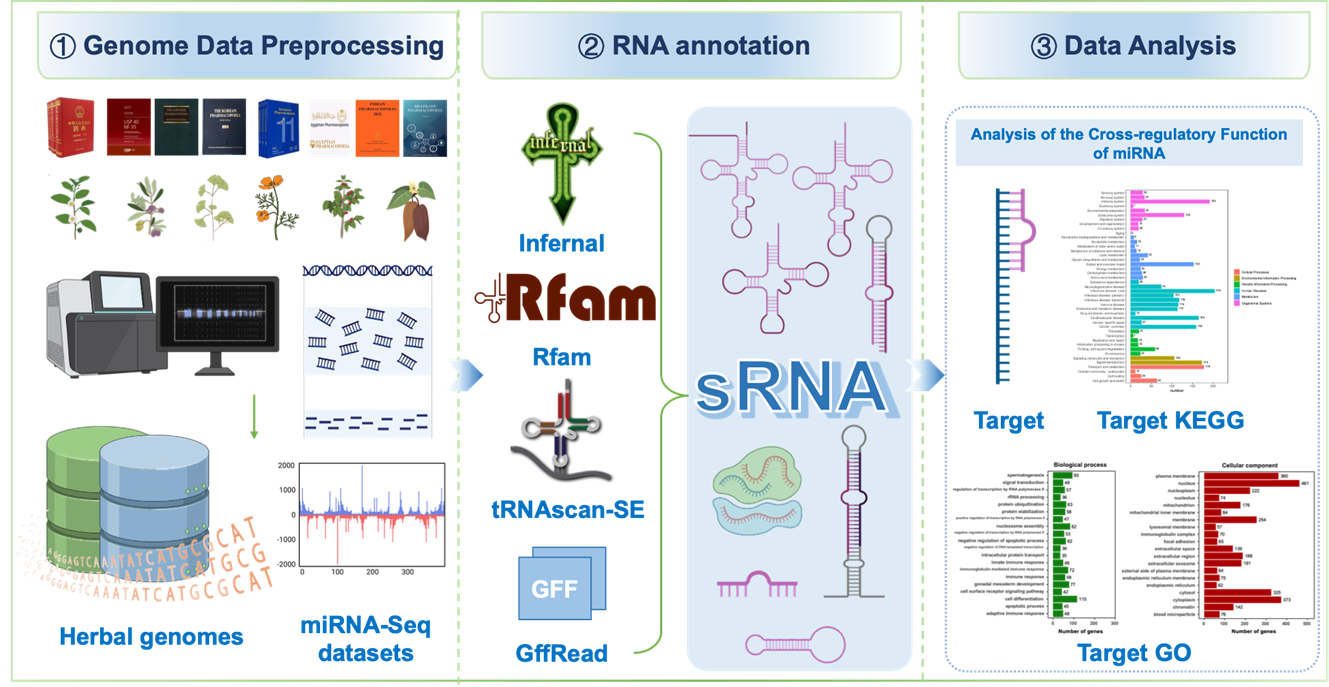
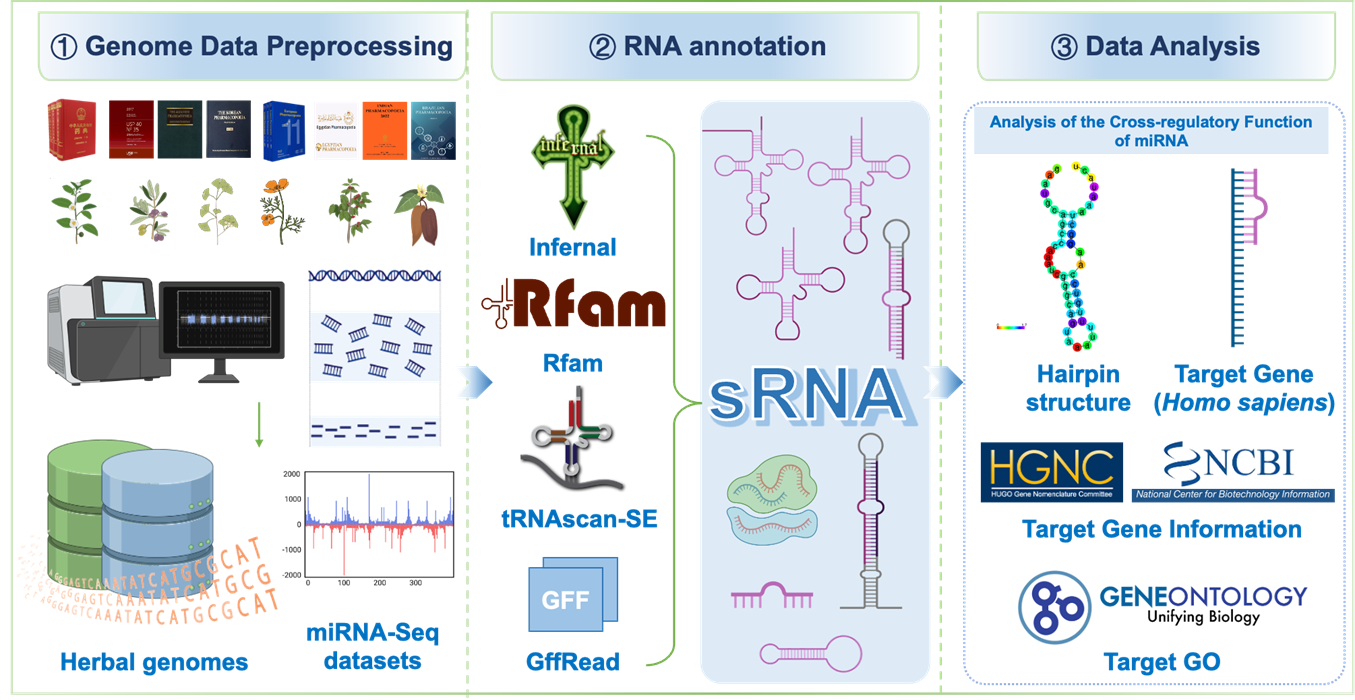
all_mes

diff --git a/README.md b/README.md
@@ -9,20 +9,22 @@
 Retrieve datasets from the following sources:
 - [NCBI](https://www.ncbi.nlm.nih.gov/)
 - [1K-MPGD](http://www.herbgenome.com/)
+- [TCMPG](https://cbcb.cdutcm.edu.cn/TCMPG/)
 
+### 2. Genome predicted Small RNA
 
-### 2. Pre-processing for miRNA-seq
+-  Rfam database (version 14.10) alongside INFERNAL software (version 1.1.4) were used for ncRNA prediction. High-confidence predictions were further refined to extract snRNAs and miRNAs. The parameters used for Rfam were "-cut_ga -rfam -nohmmonly -fmt 2", while INFERNAL was executed with "cmscan -cut_ga -nohmmonly -cpu 16 --tblout out.tblout -fmt 2 -clanin Rfam.clanin -rfam Rfam.cm genome.fa". For tRNA sequence characterization, tRNAscan-SE (version 2.0.12) was employed with the parameters "-E -j tRNA.gff -o tRNA.result -f tRNA.struct". Additionally, rRNA prediction was conducted using rRNAmmer (version 1.2) with the parameters "-S euk -m tsu, lsu, ssu".
 
-- TBtools_JRE1.6.jar biocjava.sRNA.Tools.sRNAseqAdaperRemover Settings "-- minLen 17", remove the miRNA-seq sequencing data downloaded from NCBI joint sequence, And the reads with the same sequence are merged to deredundant.
+### 3. Pre-processing for miRNA-seq
+
+- The tBtools_JRE1.6.jar biocjava.sRNA.Tools.sRNAseqAdaperRemover software was used to remove splice sequences from the sequencing data, followed by merging and de-redundancy of reads with identical sequences using the parameter "--minLen 17".
+- Based on the genome annotations provided in the GFF file, gffread (version 0.12.7) was utilized to extract gene sequences from the genome. 
 - miRDeep2 (version 2.0.1.2) software was used for miRNA prediction based on genome sequences and miRBase (version 22.1) database.
-- gffread software (version 0.12.7), based on genome structure annotation GFF files, accurately extracts gene sequences from genome sequences
 
-### 3. miRNA 靶基因预测
+### 4. Annotation of miRNA target genes
 
-- psRobot software (version 1.2) was used to analyze the complementary pairing between miRNA sequences and target gene mRNA sequences to search for potential binding sites. At the same time, the software will evaluate the secondary structure of the target gene, and by calculating the free energy of miRNA binding to the target gene, select the target gene with higher binding stability and closer to the real situation.
-- RNAhybrid software (version 2.1.2) was used to predict the target genes of miRNA in species human. The software analyzes the complementary pairing between the miRNA sequence and the target gene mRNA sequence to search for potential binding sites.
-- the kofam_scan tool (ftp://ftp.genome.jp/pub/tools/kofam_scan) was used for functional annotation of the miRNA target gene KEGG; GO functional annotation was performed using diamond against the UniProt database, which was used to obtain GO functional annotation information through the corresponding GO annotation information of the proteins in the UniProt database. The GO functional annotation was performed by using the GO annotation information of proteins in the UniProt database.
+- RNAhybrid (version 2.1.2) was used to analyze the complementary pairing patterns between miRNA sequences and target mRNA sequences to identify potential binding sites.
+- The secondary structure of target genes was evaluated and binding stability was assessed by calculating the free energy of miRNA target interactions. High confidence targets with enhanced binding stability and biological relevance were prioritized for further analysis.
+- For functional annotation, the functions of miRNA target genes can be accessed through the Human Genetics website (https://www.genenames.org/), and GO function annotation information is also available. 
+- For miRNA target genes that are ncRNAs, more information is available through the National Center for Biotechnology Information (NCBI）(https://www.ncbi.nlm.nih.gov/gene/).
 
-### 4. Denovo predicts Small RNA
-
--  Rfam database (version 14.10) and INFERNAL software (version 1.1.4) were used to perform ncRNA prediction on genomic sequences
